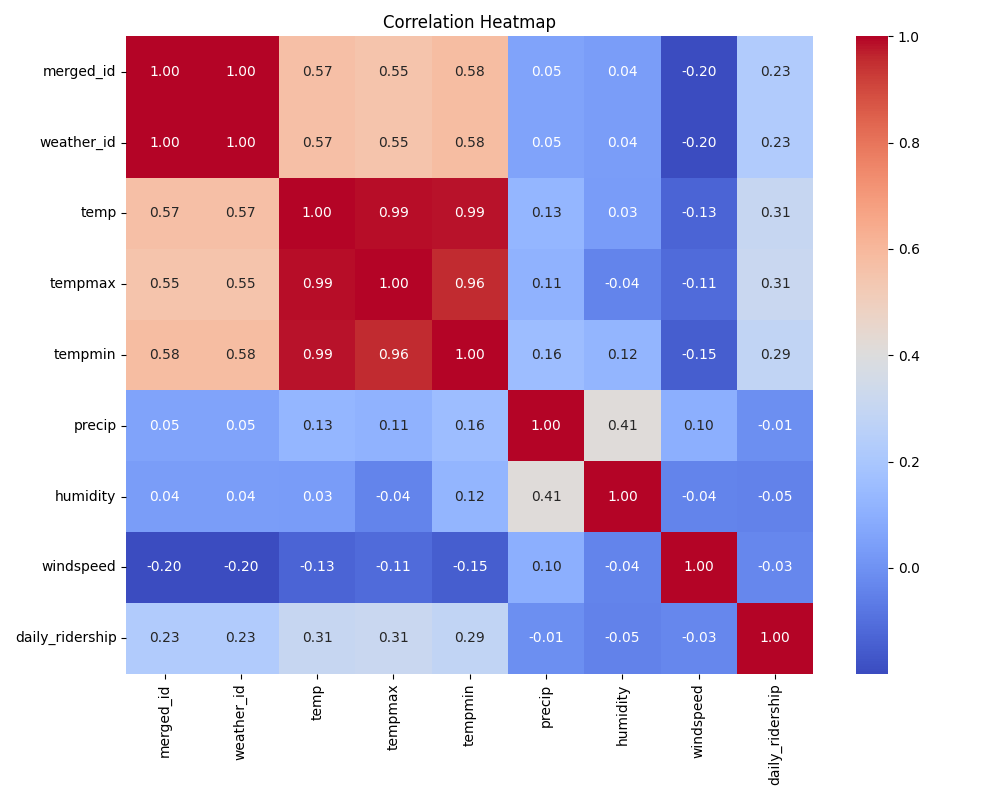
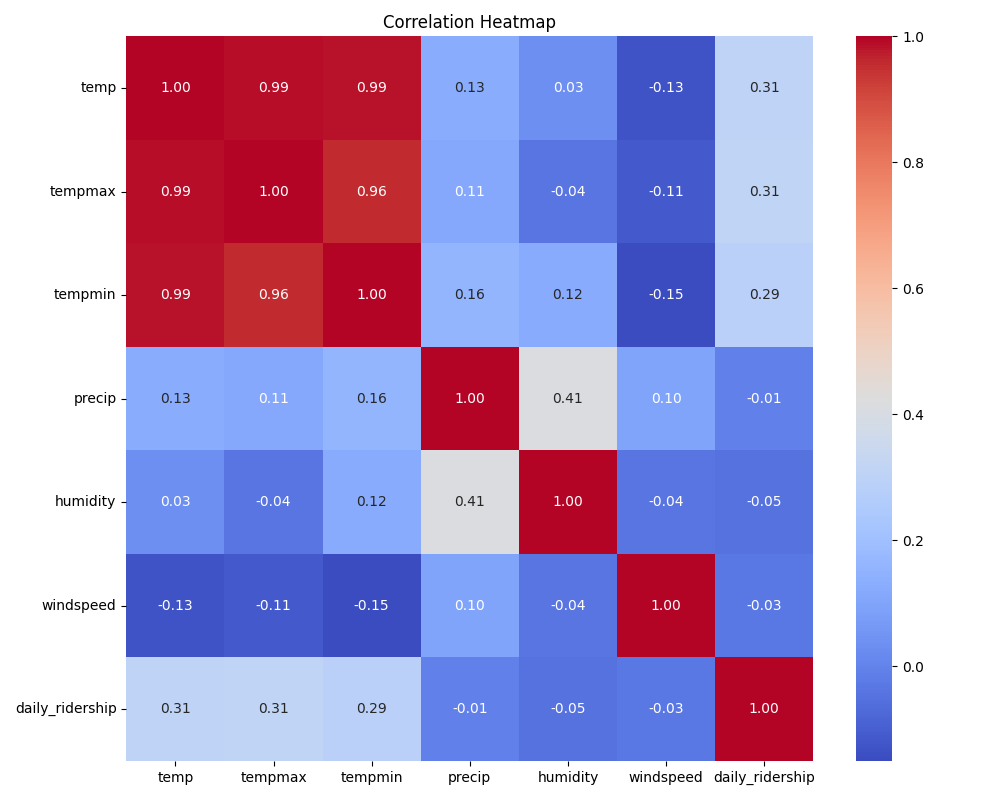
Remove ID columns from correlation heatmap

diff --git a/src/transform_load.py b/src/transform_load.py
@@ -115,7 +115,7 @@ def transform_and_load_data() -> pd.DataFrame:
 
     
     #plot 3
-    corr_df = merged.drop(columns=["date"]).select_dtypes(include="number")
+    corr_df = merged.drop(columns=["date","merged_id","weather_id"]).select_dtypes(include="number")
 
     plt.figure(figsize=(10, 8))
     sns.heatmap(corr_df.corr(), annot=True, cmap="coolwarm", fmt=".2f")
